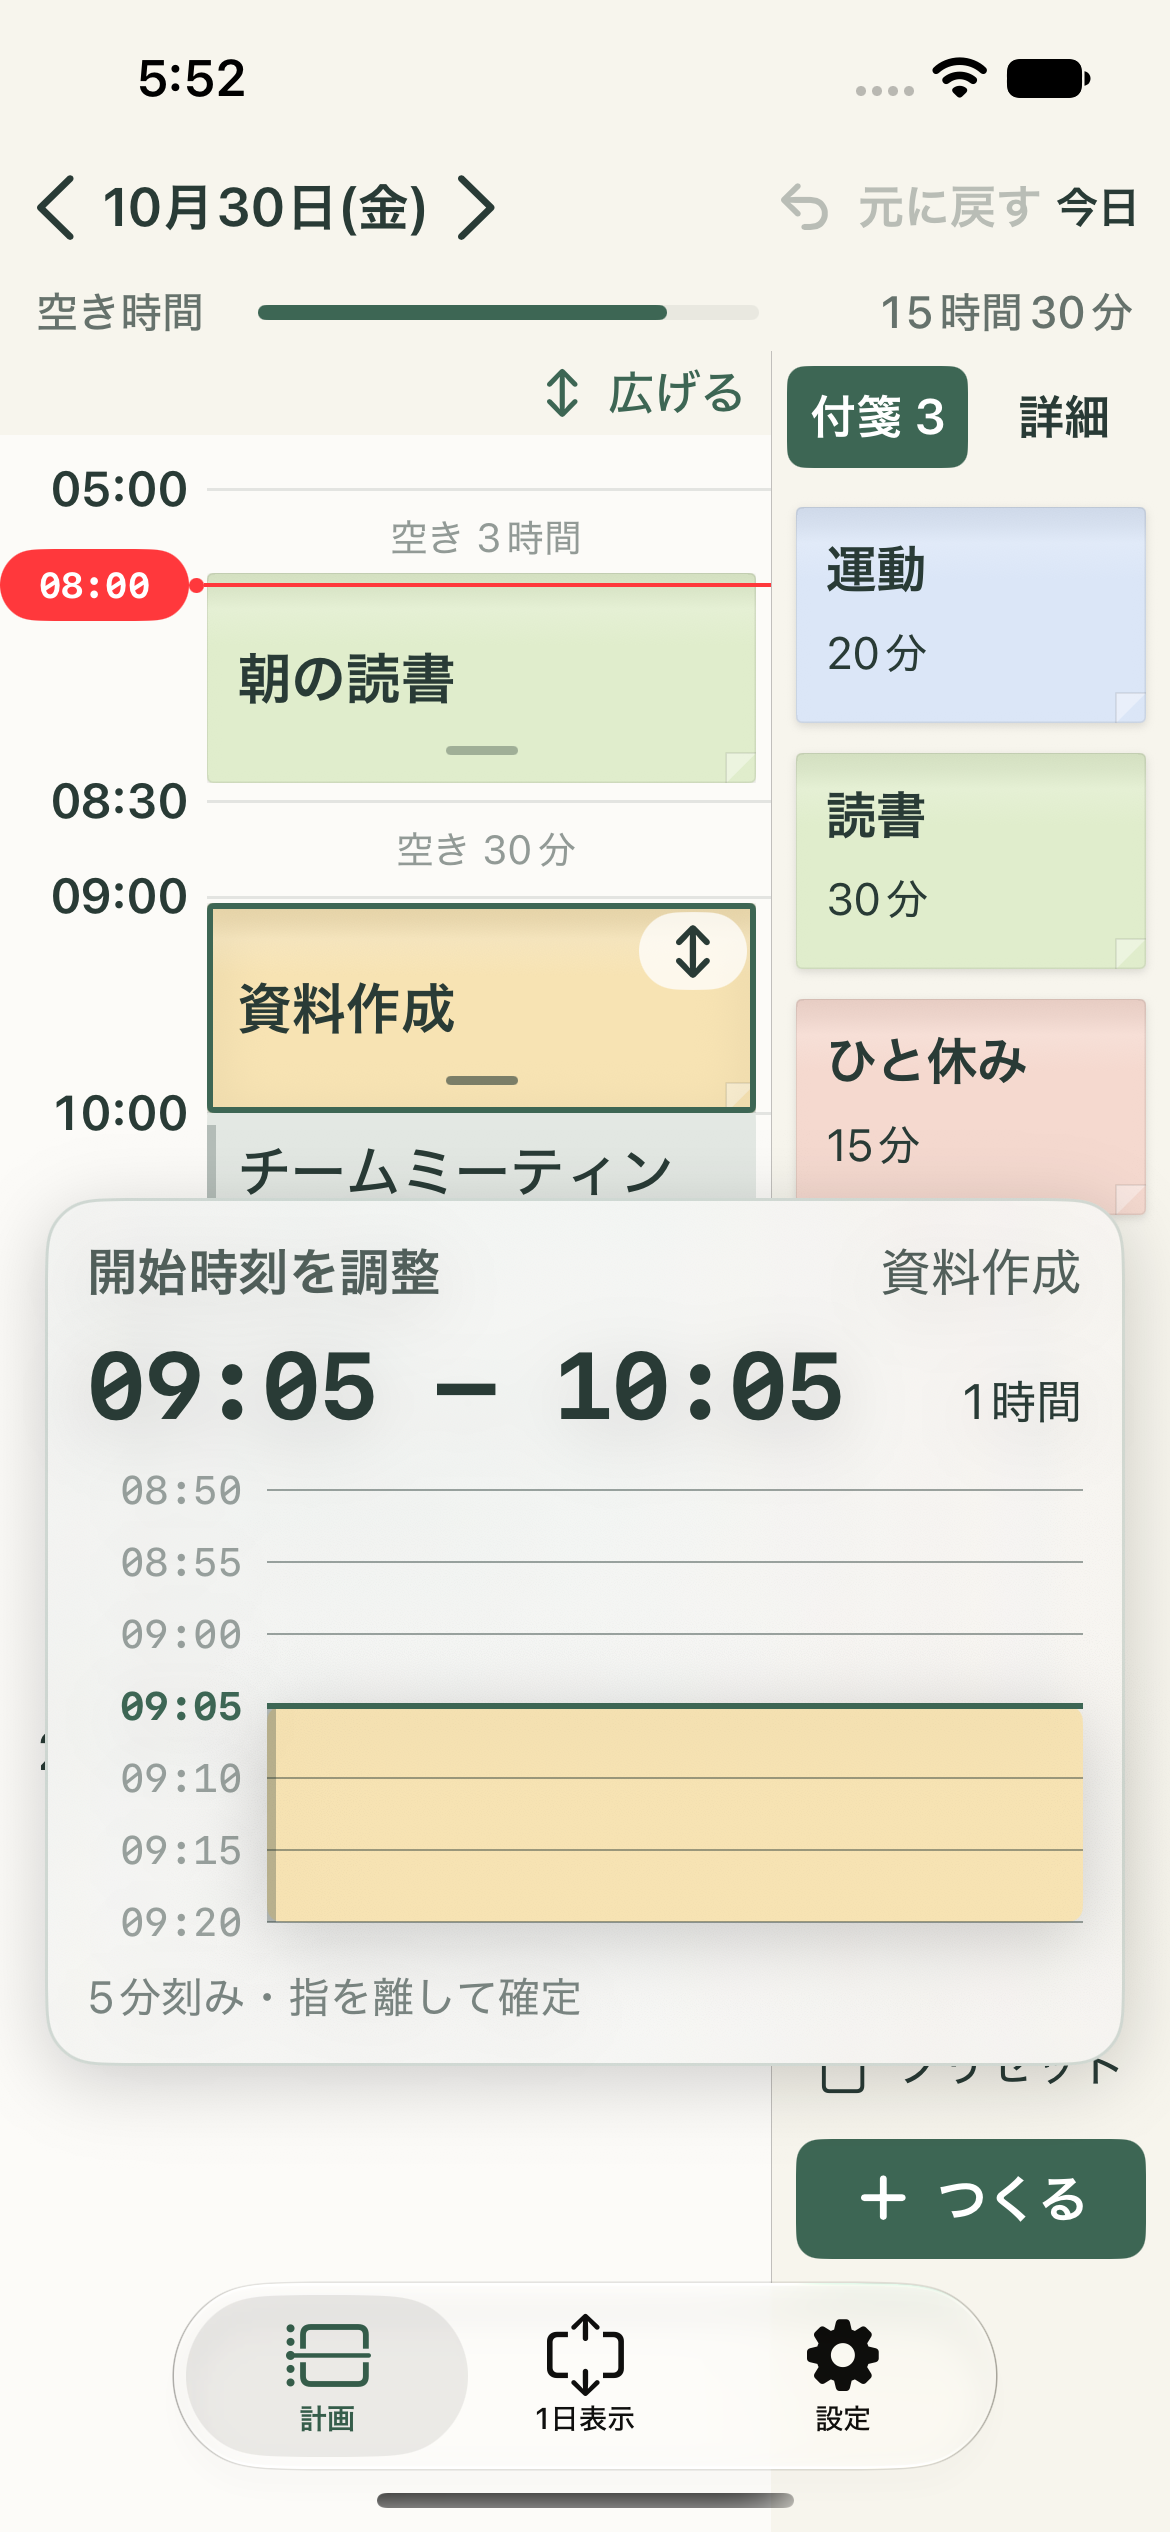
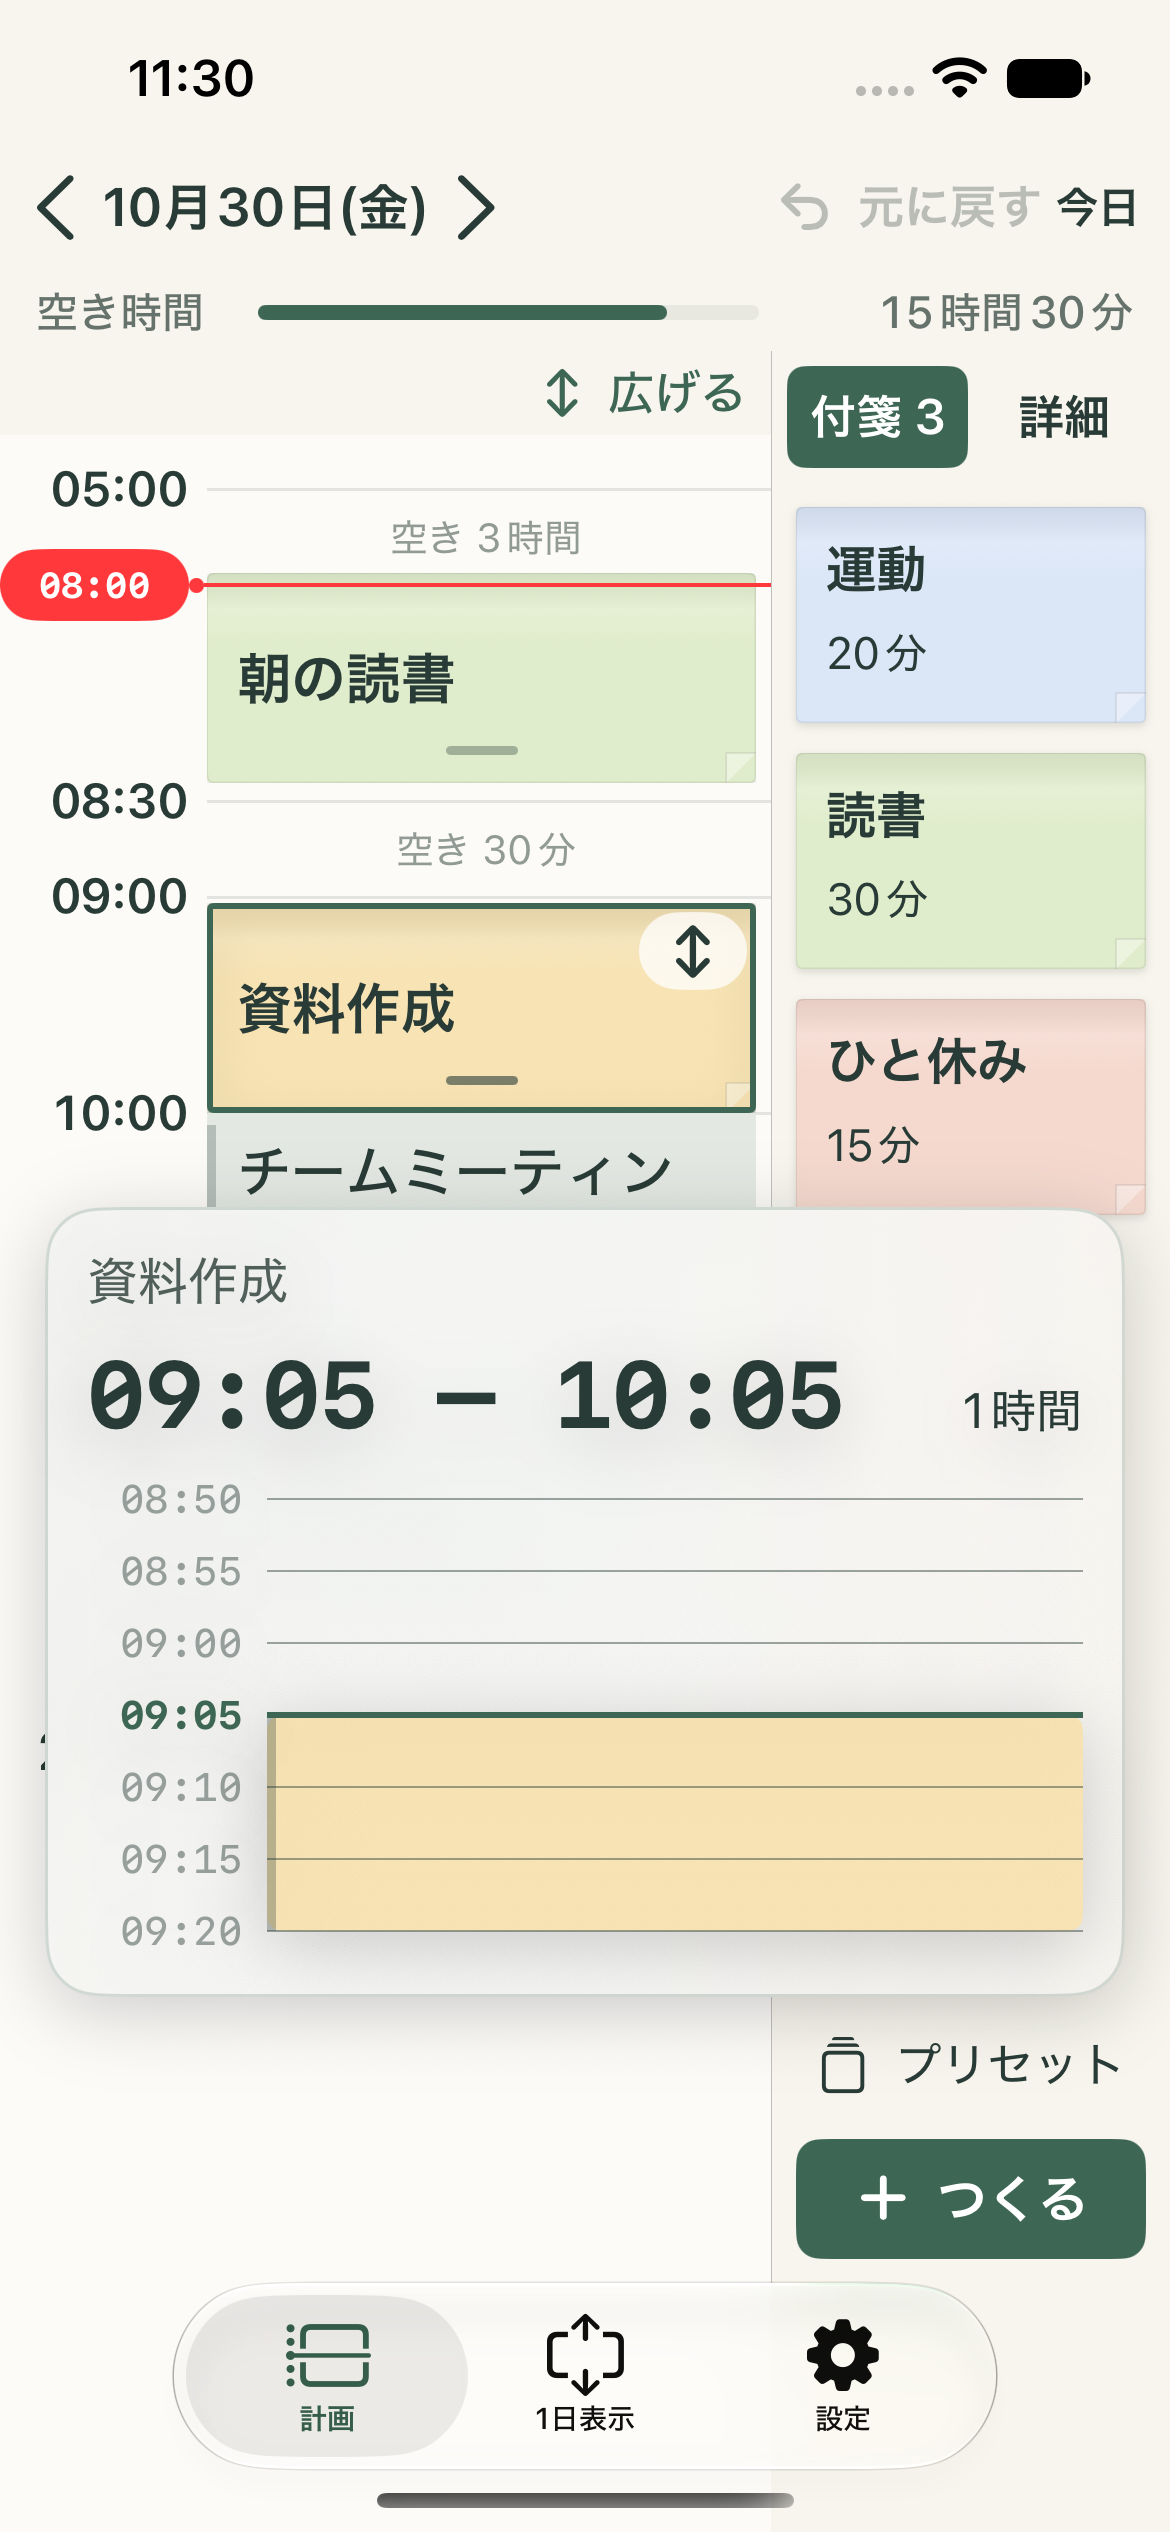
Remove instructional text from drag magnifier

diff --git a/ios/Yoteikan/PlannerView.swift b/ios/Yoteikan/PlannerView.swift
@@ -186,11 +186,8 @@ private struct TimeAdjustmentLoupe: View {
     private var spanHeight: CGFloat { CGFloat(steps * 48) }
     var body: some View {
         VStack(alignment: .leading, spacing: 8) {
-            HStack {
-                Text(resizing ? "終了時刻を調整" : "開始時刻を調整").plannerFont(size: 12, weight: .semibold)
-                Spacer(minLength: 4)
-                Text(title).plannerFont(size: 12).lineLimit(1)
-            }.foregroundStyle(ink.opacity(0.8))
+            Text(title).plannerFont(size: 12).lineLimit(1).foregroundStyle(ink.opacity(0.8))
+                .frame(maxWidth: .infinity, alignment: .leading)
             HStack(alignment: .firstTextBaseline) {
                 Text("\(clockText(start)) – \(clockText(start + duration))")
                     .plannerFont(size: compact ? 15 : 21, weight: .bold, design: .monospaced).lineLimit(1).minimumScaleFactor(0.65)
@@ -219,7 +216,6 @@ private struct TimeAdjustmentLoupe: View {
                     }
                 }
             }.frame(height: spanHeight + 16)
-            if !compact { Text("5分刻み・指を離して確定").plannerFont(size: 10).foregroundStyle(ink.opacity(0.6)) }
         }
         .padding(14).foregroundStyle(ink)
         .background(.regularMaterial, in: RoundedRectangle(cornerRadius: 18))
@@ -772,7 +768,7 @@ struct PlannerView: View {
                     let duration = resizing ? resizedDuration(task, delta: dragTranslation) : task.minutes
                     let fingerY = dragLocation.y - geometry.frame(in: .global).minY
                     let compact = geometry.size.height < 360
-                    let panelHeight: CGFloat = compact ? 200 : 310
+                    let panelHeight: CGFloat = compact ? 200 : 290
                     let above = fingerY - panelHeight / 2 - 54
                     let center = above >= panelHeight / 2 + 8 ? above : fingerY + panelHeight / 2 + 54
                     TimeAdjustmentLoupe(title: task.title, start: start, duration: duration, resizing: resizing, compact: compact,

diff --git a/docs/verification.md b/docs/verification.md
@@ -7,6 +7,8 @@ Issue #18・#19・#20を含め、ユニット23件・UI25件の全48件が成功
 
 ## ドラッグ中の時刻拡大・微調整（2026年10月30日）
 
+拡大画面から「開始時刻を調整／終了時刻を調整」「5分刻み・指を離して確定」の表示文言を削除。予定名・時刻・所要時間・目盛りを残し、UI50/51の2件が成功（`PrecisionLabelsRemoved.xcresult`）。画面70〜73も更新しました。
+
 - 予定の移動・長さ変更中だけ、指の上か下に5分刻みの拡大ルーラー、変更後の開始・終了時刻と所要時間を表示。離すと確定して消えます。横向きでは目盛りの範囲を短くし、150%の文字設定にも対応。
 - 通常・折りたたみとも最低24ポイントで5分動く感度にし、高倍率では既存の細かさを維持。ジェスチャー開始時の感度を保ち、圧縮された空き時間の境界で時刻が飛ぶことを防止。全体の倍率は変更しません。
 - `PrecisionDragRegression.xcresult`：最終UI03/20/35/50の4件成功。通常・折りたたみの移動/伸縮、5分単位の調整とUndo、高倍率の短い予定、付箋置き場への戻し、指を離した後の拡大表示の消去を確認。
